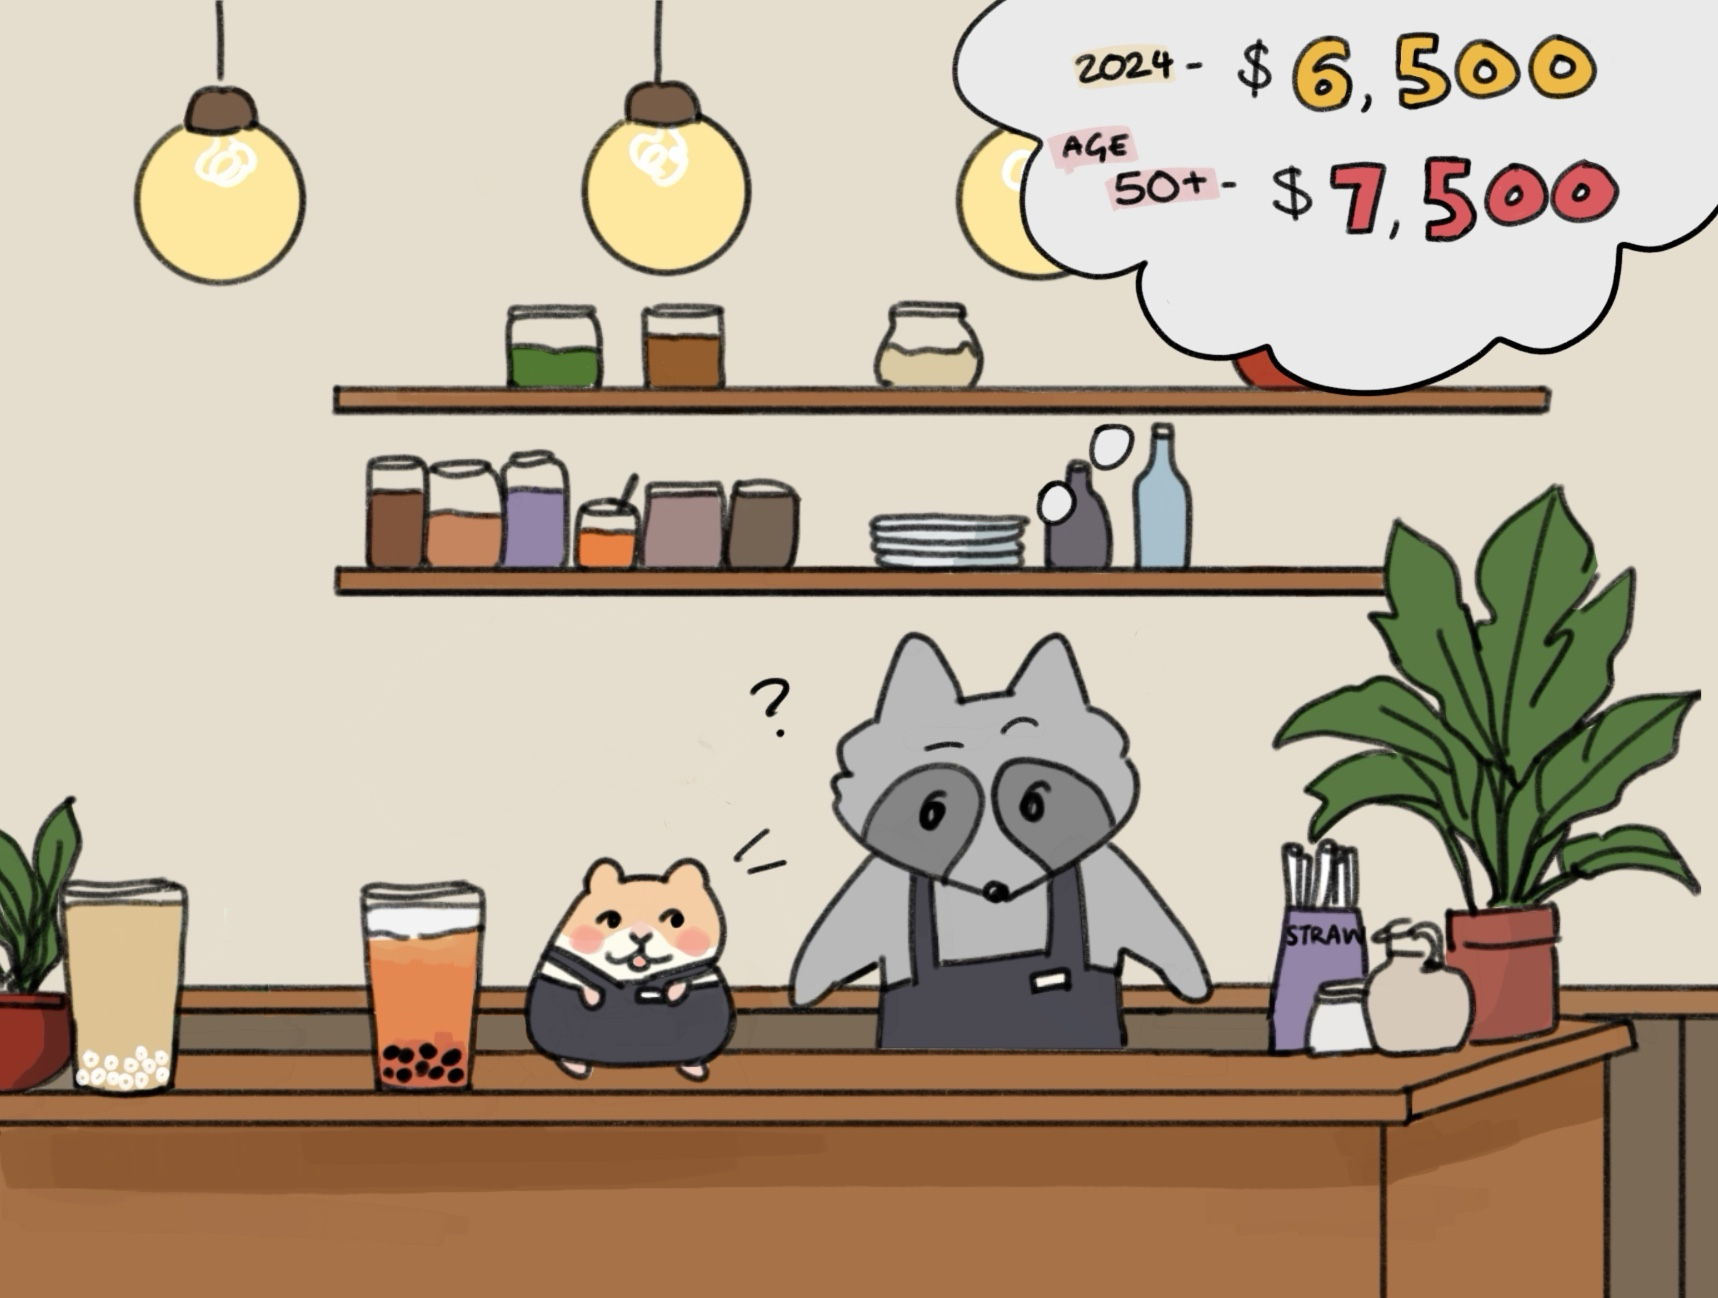
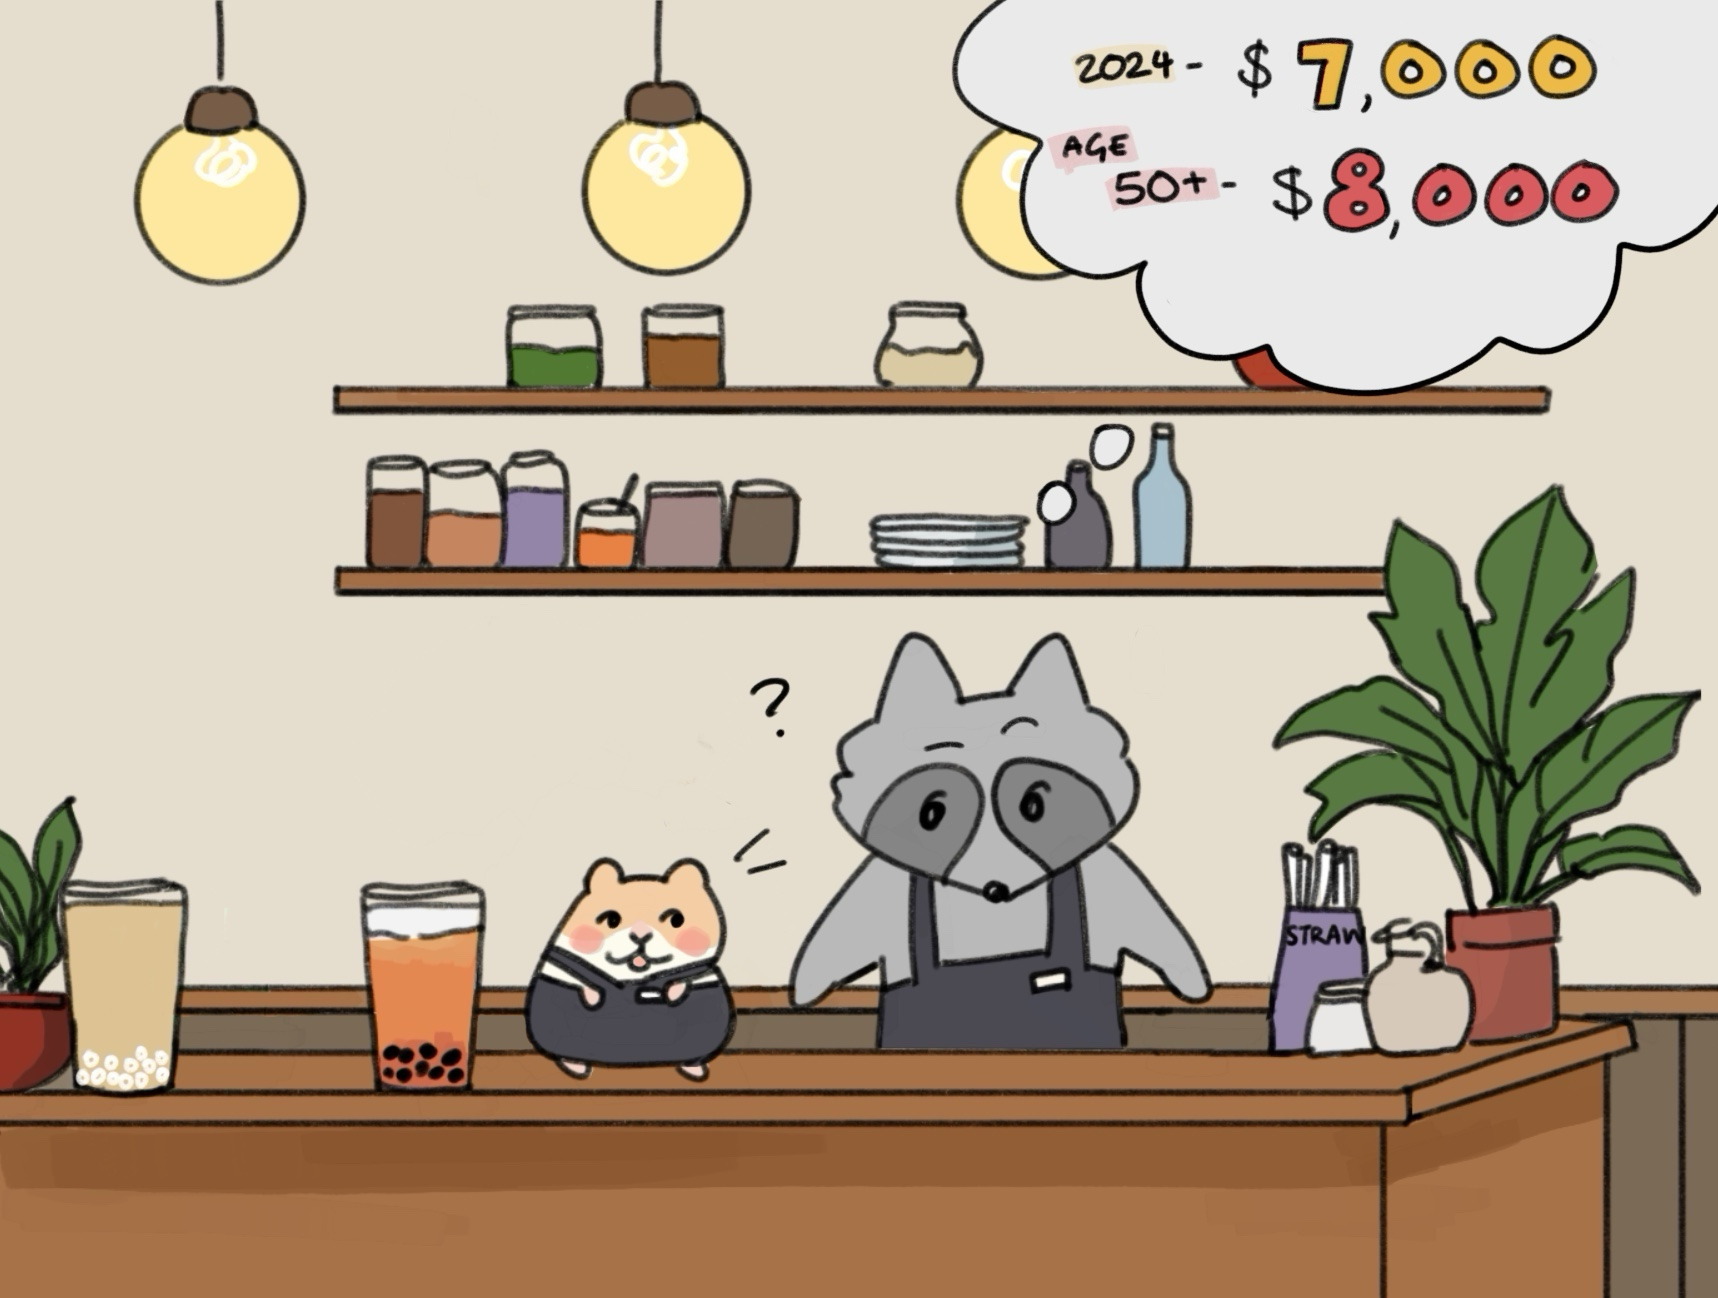
update contribution amounts

Changed region(s): [[0.7404, 0.0, 0.8638, 0.1849]]

diff --git a/styles.css b/styles.css
@@ -51,7 +51,7 @@ body {
     width: 100%;
     padding: 10px;
     margin-bottom: 10px;
-    background-color: #cdbbdc;
+    background-color: #d2c1e0;
     color: rgb(0, 0, 0);
     border: none;
     border-radius: 5px;
